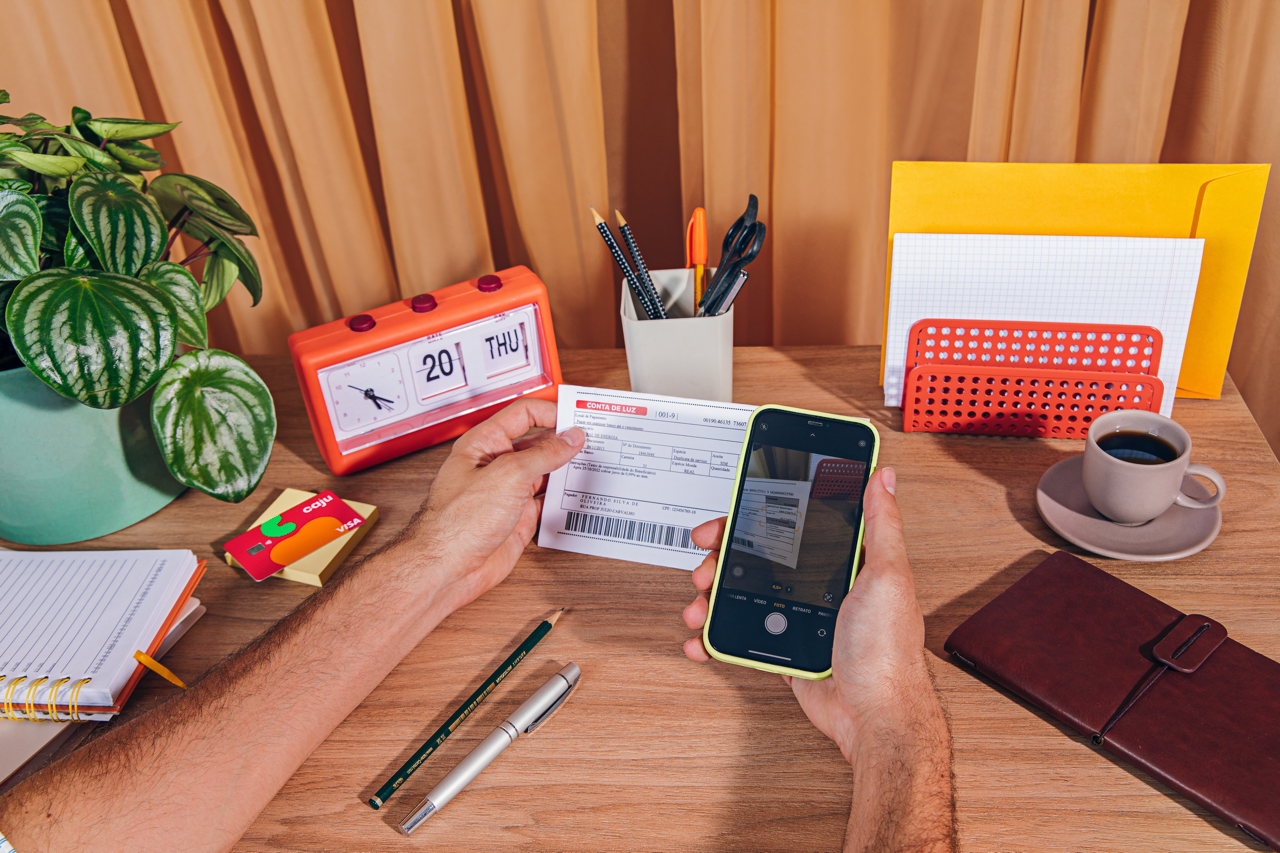
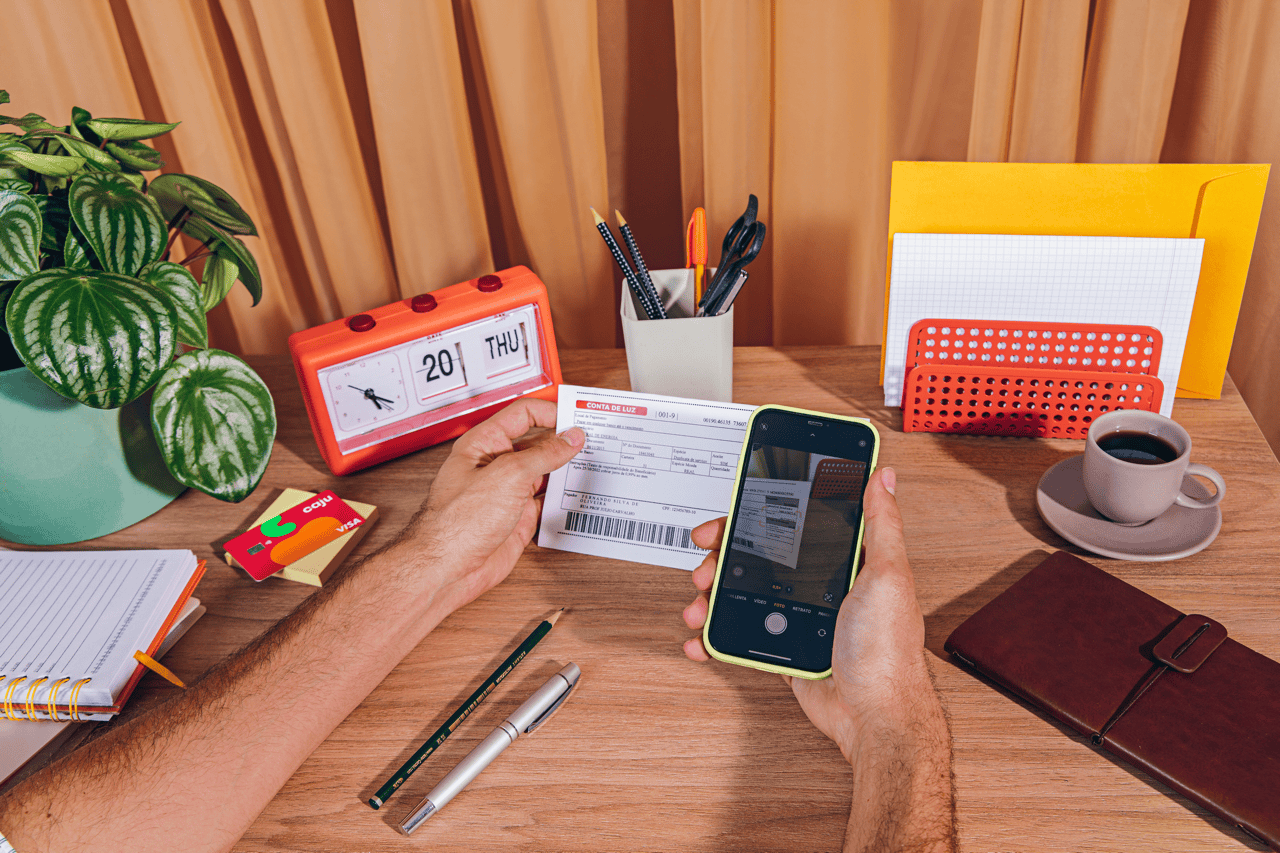
otimização das imagens

diff --git a/public/index.html b/public/index.html
@@ -29,49 +29,46 @@
             </div>
         </header>
         <main>
-            <divisao></divisao>
-
             <!-- Cartão -->
 
             <section class="margin--body">
 
-                <div class="cartao__row--1">
-                    <span>
-                        <h2 class="cartao__h2">
-                            Cartão Caju, o novo xodó <br> dos seus colaboradores
-                        </h2>
-                        <br>
-                        <p>
-                            Caju Multibenefícios é a forma mais saborosa de oferecer vários benefícios através de um único cartão, com bandeira Visa, aceito em milhões de estabelecimentos no Brasil e no mundo.
-                        </p>
-                        <br>
-                        <p>
-                            Tudo isso no cartão com categorias flexíveis e fixas, que vão de mobilidade até o auxílio-alimentação, com total segurança jurídica para sua empresa.
-                        </p>
-                    </span>
-                    <div class="cartao__video--container">
-                        <iframe class="cartao__video" src="https://www.youtube.com/embed/C4HeeSug3J8?si=FejFVWs7wyZOwwRp?controls=0" title="YouTube video player" frameborder="0"  allowfullscreen></iframe>
-                    </div>
-                </div>
-                <div class="cartao__row--2">
-                    <img class="cartao__img" src="/public/src/cartao-grafismo.svg">
-                    <div class="cartao__cont">
-                        <span v-for="cartao in cartoes">
-                            <div class="flex">
-                                <img class="cartao__icon" :src="cartao.icon" alt>
-                                <h5 class="cartao__h5">{{ cartao.title }}</h5>
-                            </div>
-                            <p class="cartao__text">
-                                {{ cartao.text }}
+                <div class="cartao">
+                    <div class="cartao__row--1">
+                        <span>
+                            <h2 class="cartao__h2">
+                                Cartão Caju, o novo xodó <br> dos seus colaboradores
+                            </h2>
+                            <br>
+                            <p>
+                                Caju Multibenefícios é a forma mais saborosa de oferecer vários benefícios através de um único cartão, com bandeira Visa, aceito em milhões de estabelecimentos no Brasil e no mundo.
+                            </p>
+                            <br>
+                            <p>
+                                Tudo isso no cartão com categorias flexíveis e fixas, que vão de mobilidade até o auxílio-alimentação, com total segurança jurídica para sua empresa.
                             </p>
                         </span>
+                        <div class="cartao__video--container">
+                            <iframe class="cartao__video" autoplay="1" src="https://www.youtube.com/embed/C4HeeSug3J8?si=FejFVWs7wyZOwwRp?autoplay=1&mute=1" title="YouTube video player"></iframe>
+                        </div>
                     </div>
+                    <div class="cartao__row--2">
+                        <img class="cartao__img" src="/public/src/cartao-grafismo.svg">
+                        <div class="cartao__cont">
+                            <span v-for="cartao in cartoes">
+                                <div class="flex">
+                                    <img class="cartao__icon" :src="cartao.icon" alt>
+                                    <h5 class="cartao__h5">{{ cartao.title }}</h5>
+                                </div>
+                                <p class="cartao__text">
+                                    {{ cartao.text }}
+                                </p>
+                            </span>
+                        </div>
+                    </div>
+
                 </div>
             </section>
-            
-            <!--  -->
-
-            <divisao></divisao>
 
             <!-- Benefícios -->
             
@@ -96,7 +93,7 @@
                                 <button class="saldo">
                                     Saldo {{ item.saldo }} <img src="./src/icons/help.svg" alt="ajuda">
                                     <div class="ballon">
-                                        <arrow></arrow>
+                                        <div class="arrow"></div>
                                         <p v-if="item.saldo == 'flexivel'">
                                             Saldo exclusivo para a alimentação <br> do trabalhador, conforme a Lei 14.442/2022.
                                         </p>
@@ -117,10 +114,6 @@
 
             <!--  -->
 
-            <divisao></divisao>
-
-            <!--  -->
-
             <section class="surpreenda">
 
                 <img  class="surpreenda__grafismo-1" src="./src/vector.svg">
@@ -131,25 +124,21 @@
                     <img class="surpreenda__img" src="./src/caju-premiacoes.svg">
     
                    <div>
-                        <h2 style="color: var(--caju__red)">
+                        <h2 class="surpreenda__padding--bottom" style="color: var(--caju__red); ">
                             Surpreenda seu time com um <br>
                             saldo no Caju Premiações 
                         </h2>
                         
-                        <br>
-                        <br>
-                        <p>
+                        <p class="surpreenda__padding--bottom">
                             Caju Premiações é a solução perfeita para presentear seus colaboradores com um saldo extra no cajuzinho, sem perder a segurança jurídica e sem misturar com o saldo de multibenefícios! 
                         </p>
                     
-                        <p>
+                        <p class="surpreenda__padding--bottom">
                             Na mesma plataforma de gestão de multibenefícios, a empresa pode pagar um saldo especial para o colaborador usar:    
                         </p>
                     
-                        <br>
-                        <br>
 
-                        <div class="global-icon__list--container">
+                        <div class="surpreenda__list">
                             <div class="global-icon__list flex">
                                 <img class="global-icon__list--icon" src="./src/icons/shopping-bag.svg">
                                 <p>Em compras, pagando com cajuzinho físico ou virtual</p>
@@ -211,7 +200,7 @@
             <section class="section__solucoes">
 
                 <img class="solucoes__grafismo" src="./src/vector-6.svg" alt="Gráfismo">
-                <img class="solucoes__background" src="./src/images/foto-caju-mesa-cartao.png" alt="Foto do cartão Caju">
+                <img class="solucoes__background" src="./src/images/foto-caju-mesa-cartao.jpg" alt="Foto do cartão Caju">
                 <div class="solucoes margin--body">
                     <div class="solucoes__header">
                         <img class="solucoes__logo-despesas" src="./src/logo-despesas.svg">
@@ -356,7 +345,7 @@
                         </div>
                         <div class="pacote__column--1">
                             <div class="pacote__img">
-                                <img  src="./src/images/foto-caju-saude.png">
+                                <img  src="./src/images/foto-caju-saude.jpg">
                             </div>
                             <div class="pacote__tag--container">
                                 <div class="pacote__tag">

diff --git a/public/style.css b/public/style.css
@@ -94,11 +94,6 @@ p {
     letter-spacing: 0.3px;
 }
 
-divisao {
-    display: block;
-    padding: 60px 0;
-}
-
 body {
     overflow-x: hidden;
 }
@@ -161,6 +156,10 @@ header {
 }
  /* Cartão */
  
+.cartao {
+    padding: 100px 0 60px 0;
+}
+
 .cartao__video--container {
     position: relative;
     display: flex;
@@ -247,6 +246,7 @@ section {
     gap: 200px;
     margin-top: 400px;
     width: 100%;
+    padding-bottom: 80px;
 }
 
 .beneficios__grid {
@@ -359,7 +359,7 @@ section {
     z-index: 2;
 }
 
-arrow {
+.arrow {
     position: absolute;
     display: block;
     background: #252525;
@@ -408,7 +408,15 @@ arrow {
 .surpreenda__img {
     width: 243px;
 }
+.surpreenda__padding--bottom {
+    padding-bottom: 40px;
+}
 
+.surpreenda__list{
+    display: flex;
+    flex-direction: column;
+    gap: 20px;
+}
 
 /* Premiações */
 
@@ -557,10 +565,10 @@ arrow {
     color: white;
 }
 
-.pacote div {
+/* .pacote div {
     position: relative;
     z-index: 1;
-}
+} */
 
 .pacote__grafismo {
     position: absolute;
@@ -620,6 +628,7 @@ arrow {
 .pacote__img img {
     border-radius: 40px;
     width: 100%;
+    height: 100%;
     object-fit: cover;
 } 
 

diff --git a/public/script.js b/public/script.js
@@ -1,4 +1,4 @@
-new Vue( {
+new Vue({
     el: '#app',
     data: {
        cartoes: [
@@ -114,4 +114,4 @@ new Vue( {
            },
         ],
     },
-   })
+})
